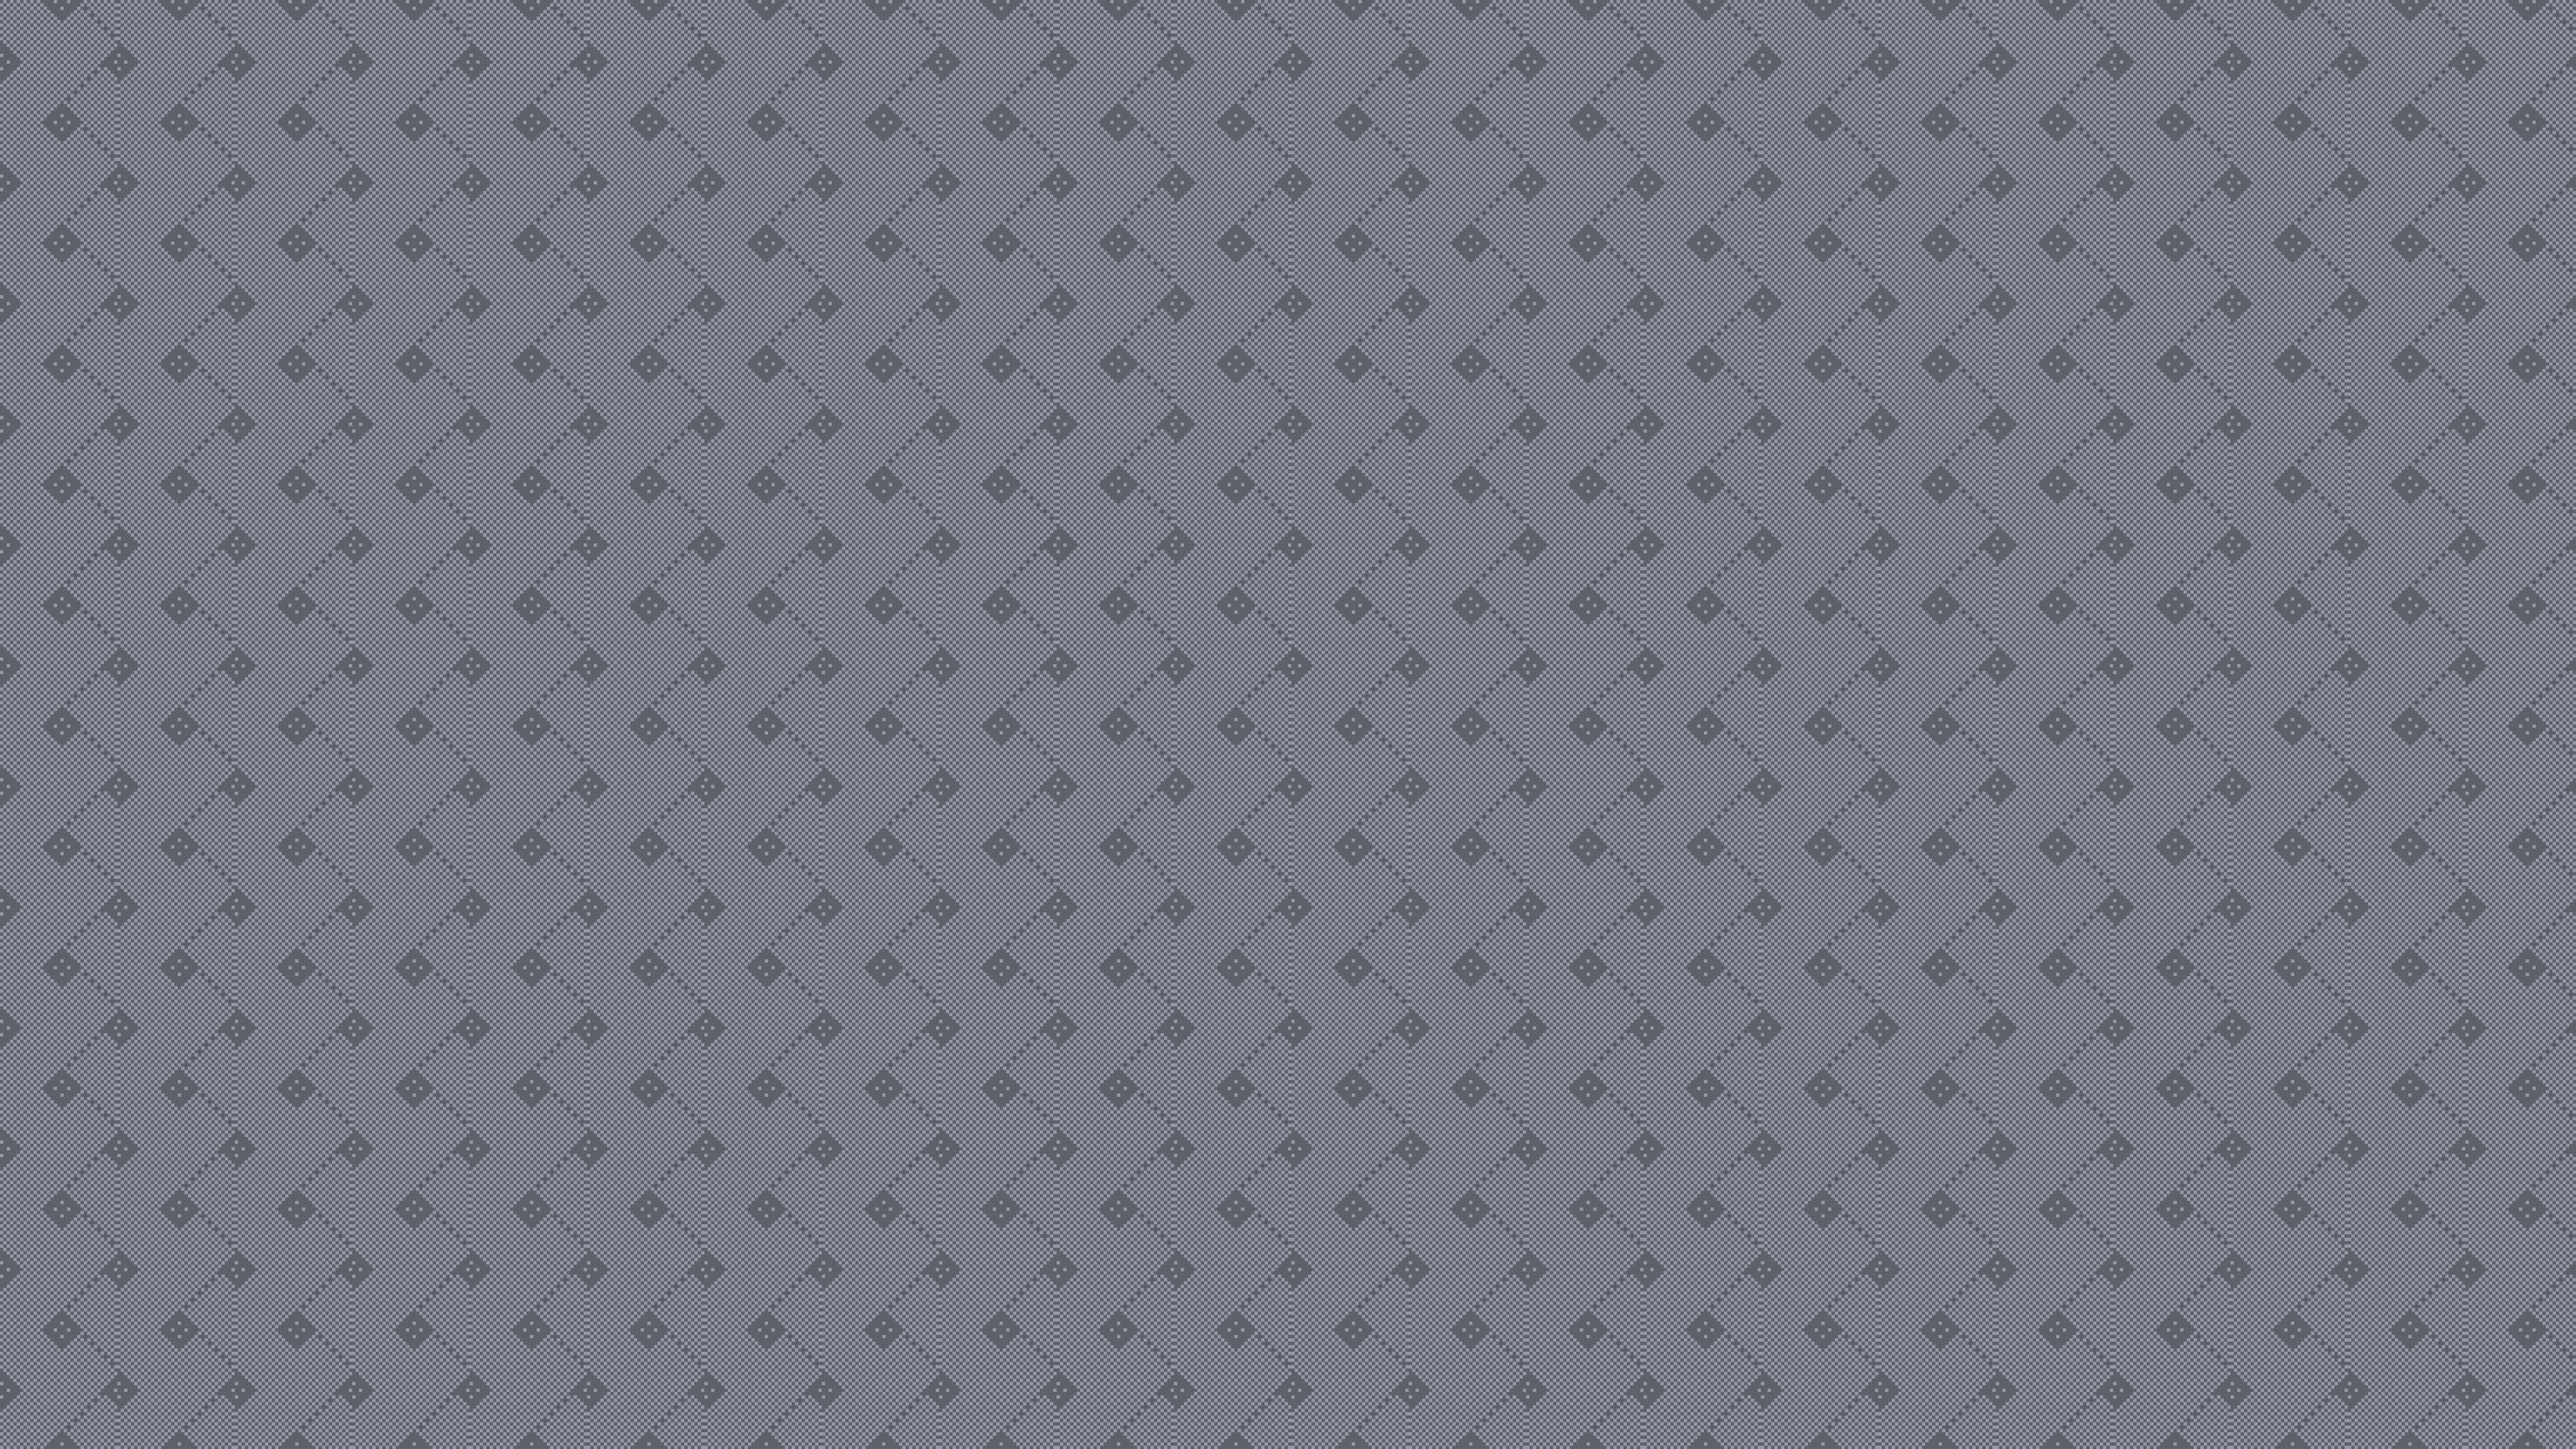
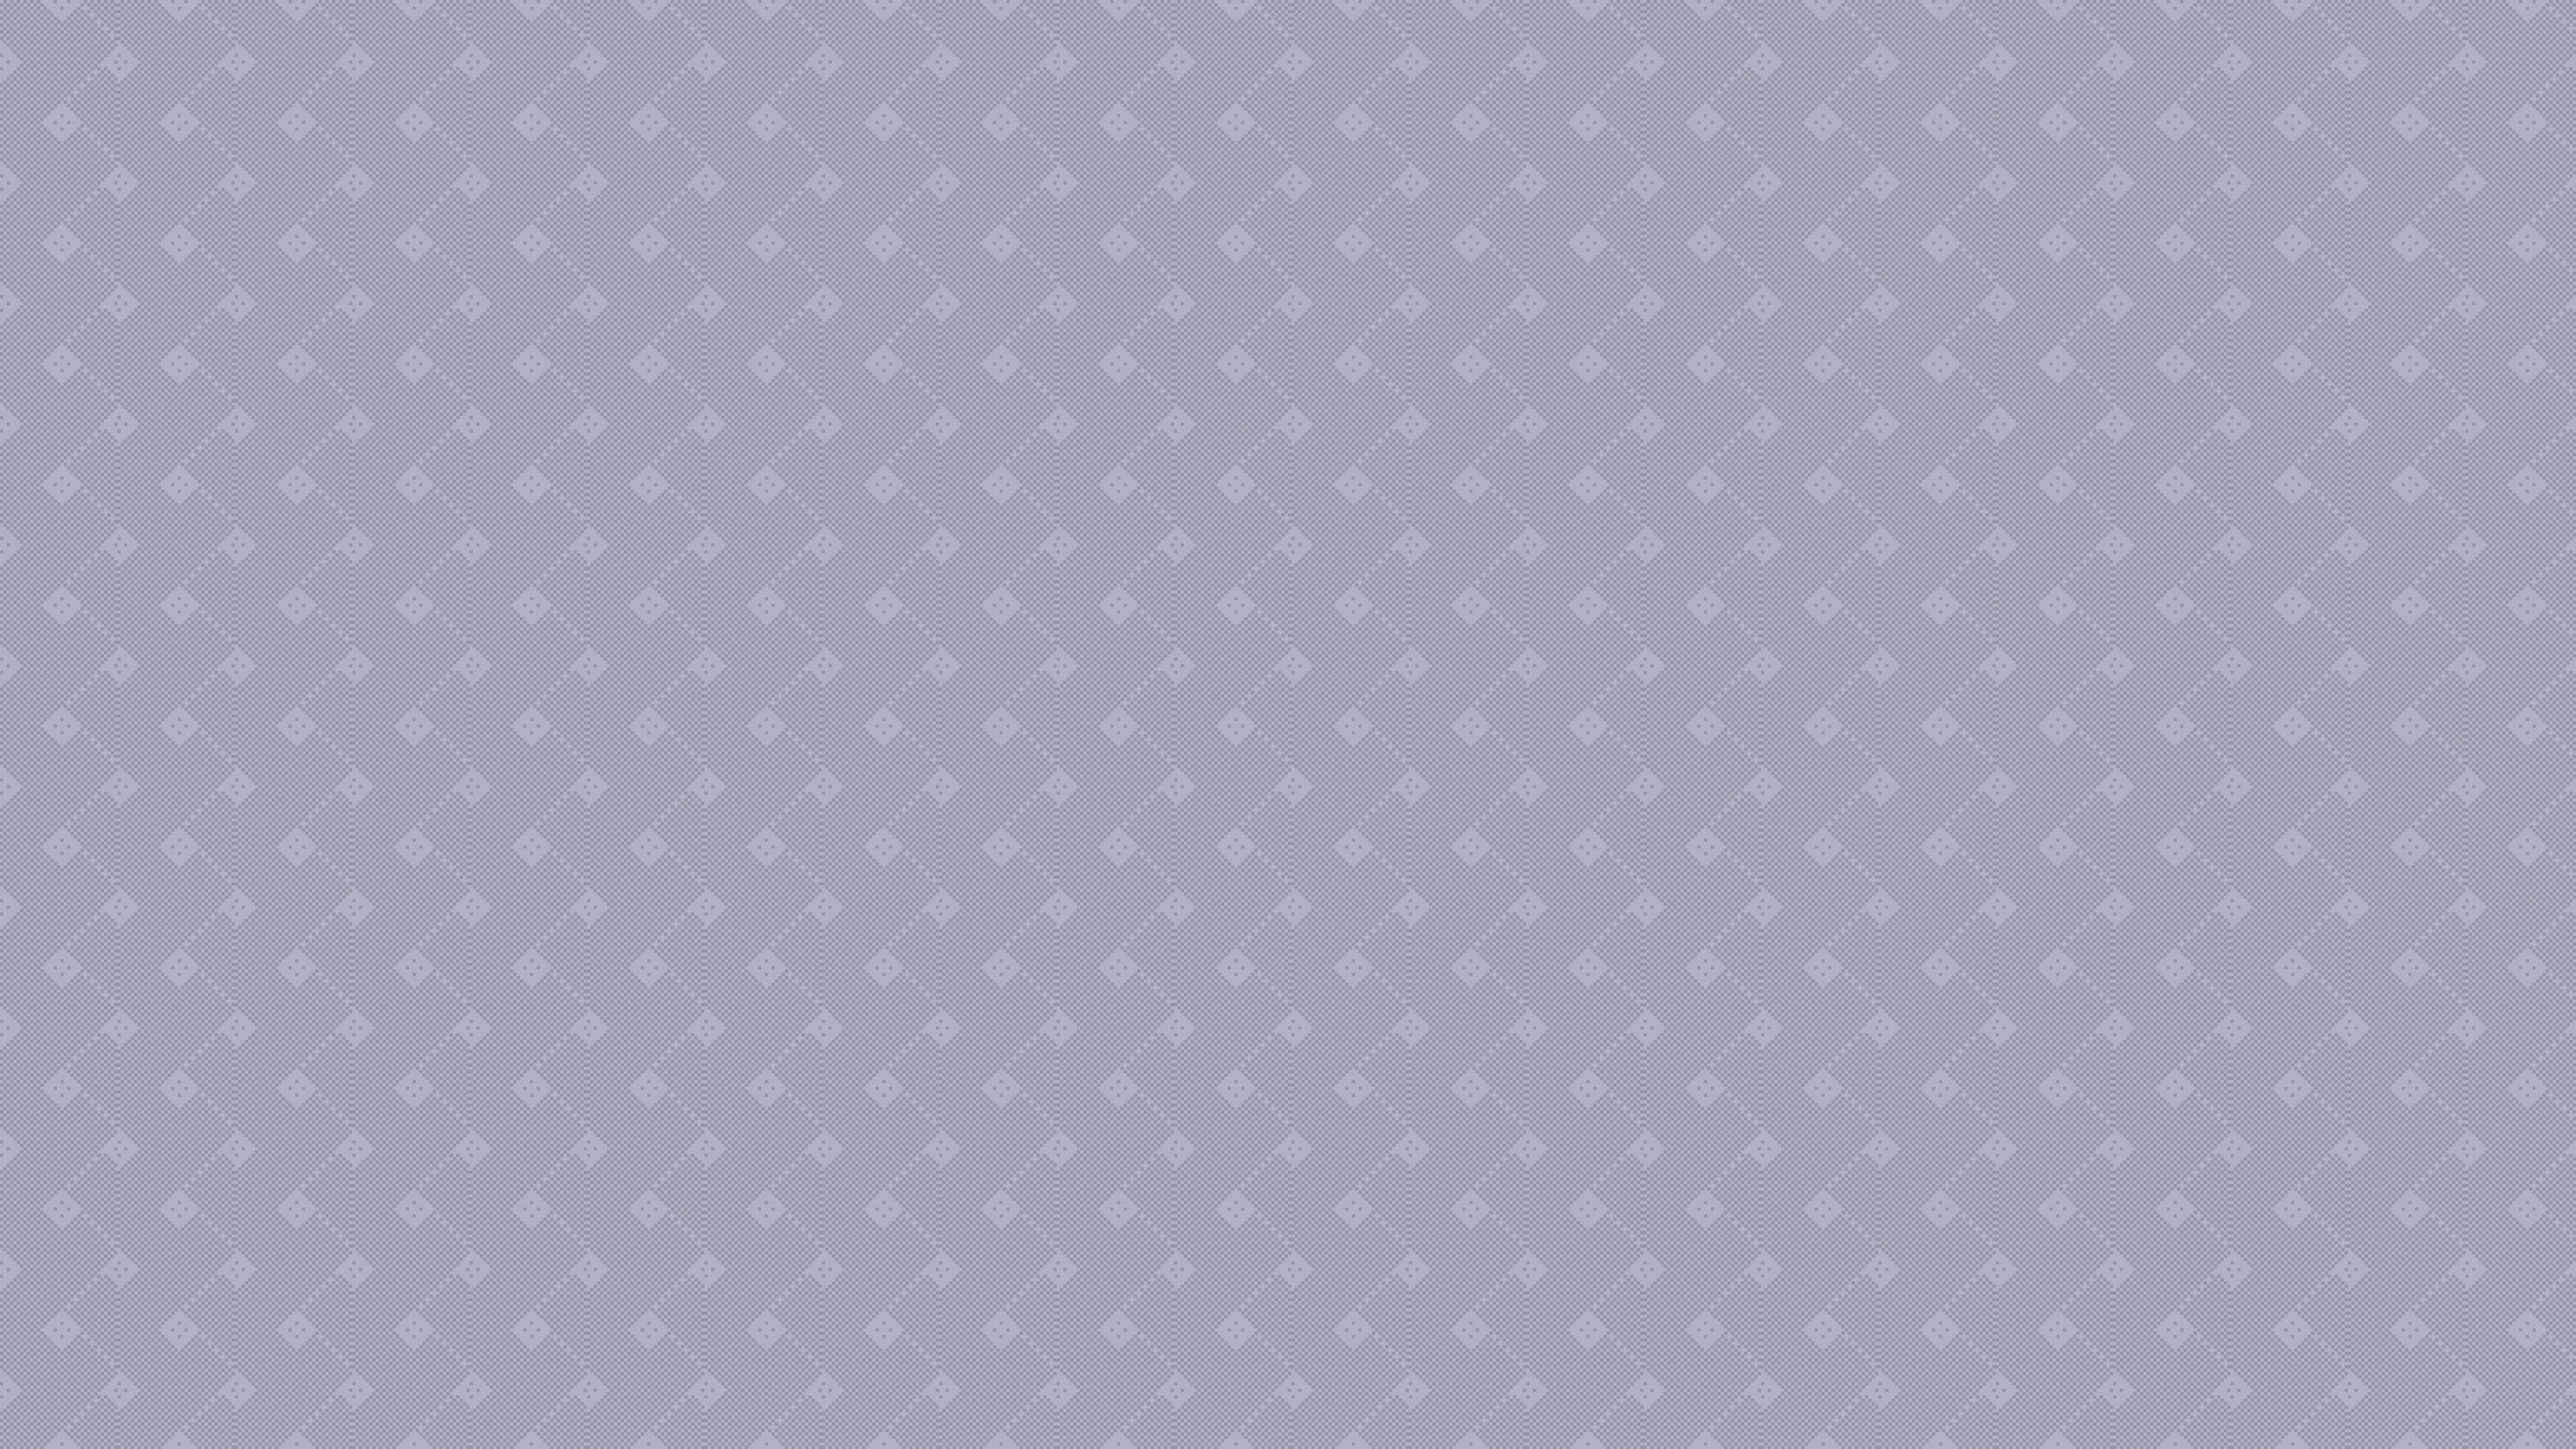
Trim wallpapers to the curated seven; Lattice in theme color

diff --git a/README.md b/README.md
@@ -13,7 +13,7 @@ omarchy theme install https://github.com/circumspace/omarchy-solstice-daylight-t
 
 ## Backgrounds
 
-Fourteen CDE-inspired wallpapers are included. Cycle through them with
+Seven CDE-inspired wallpapers are included. Cycle through them with
 `omarchy theme bg next`.
 
 ![Solstice Daylight backgrounds](backgrounds.jpg)
